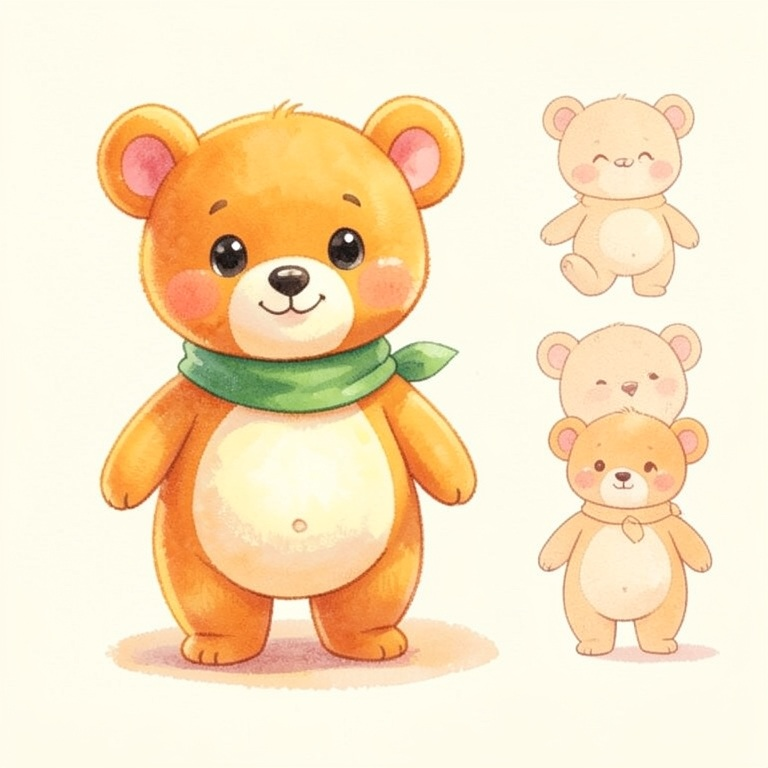
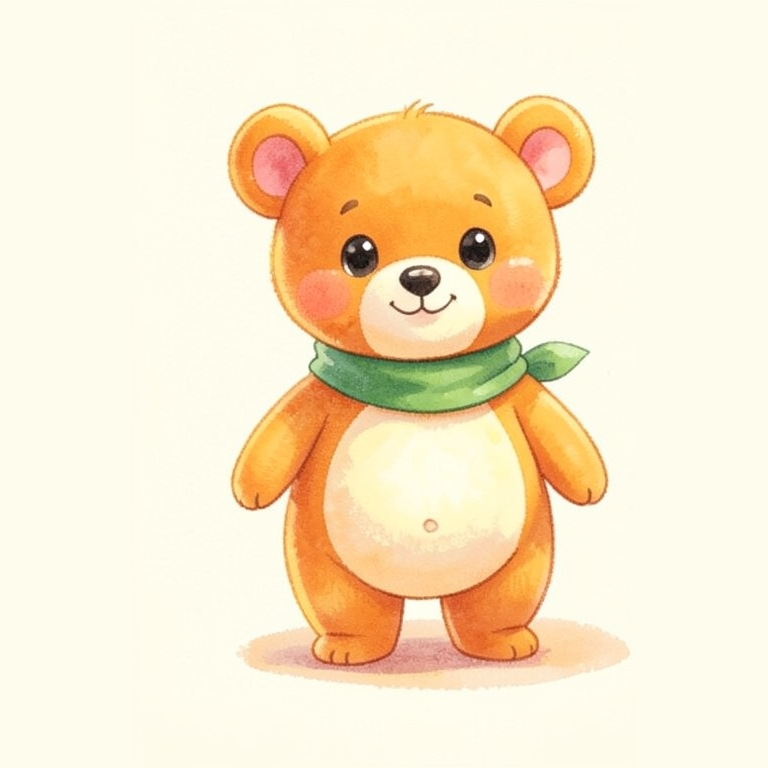
Clean Tumble's reference sheet to a single figure; ask for single-pose sheets
Claude-Session: https://claude.ai/code/session_01KDmuQgGncrsFzrsFrFg7KE

diff --git a/kidtoon/images.py b/kidtoon/images.py
@@ -73,7 +73,8 @@ class ImageGen:
                 continue
             self.log(f"  designing {name}")
             prompt = (f"{self.style}. Character design reference sheet of {name}, {c['look']}. Full body, standing, "
-                      "facing the viewer with a friendly smile, centered, simple plain cream background, "
+                      "facing the viewer with a friendly smile, centered, simple plain cream background. "
+                      "Exactly one single character in one pose: no extra views, no turnaround, no small copies, "
                       "nothing else in the picture.")
             tmp = out.with_suffix(".jpg")
             self.generate(prompt, (768, 768), [], seed=sum(map(ord, name)), out=tmp)
